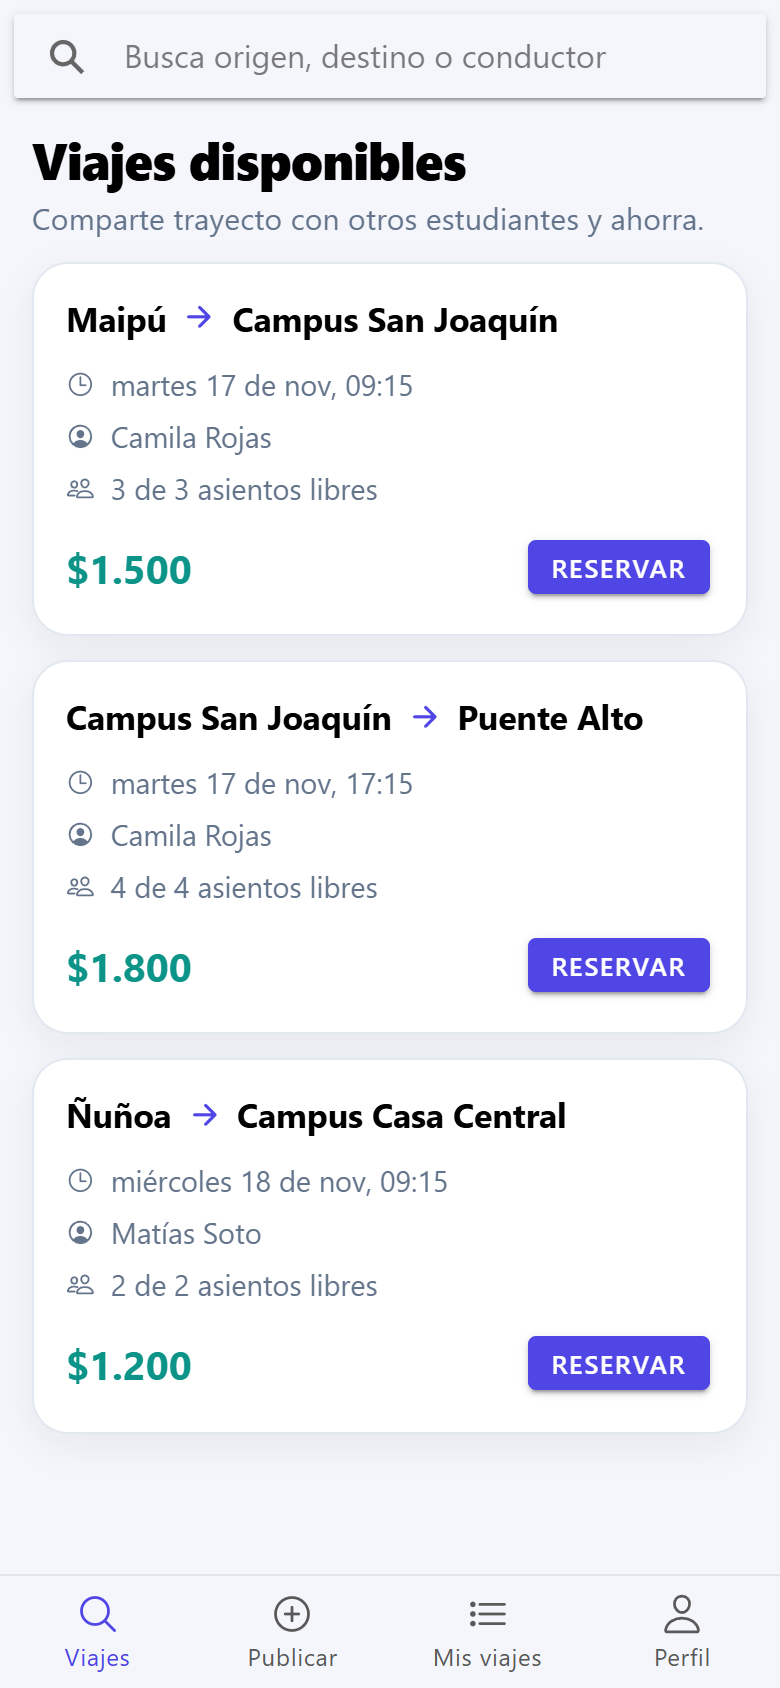
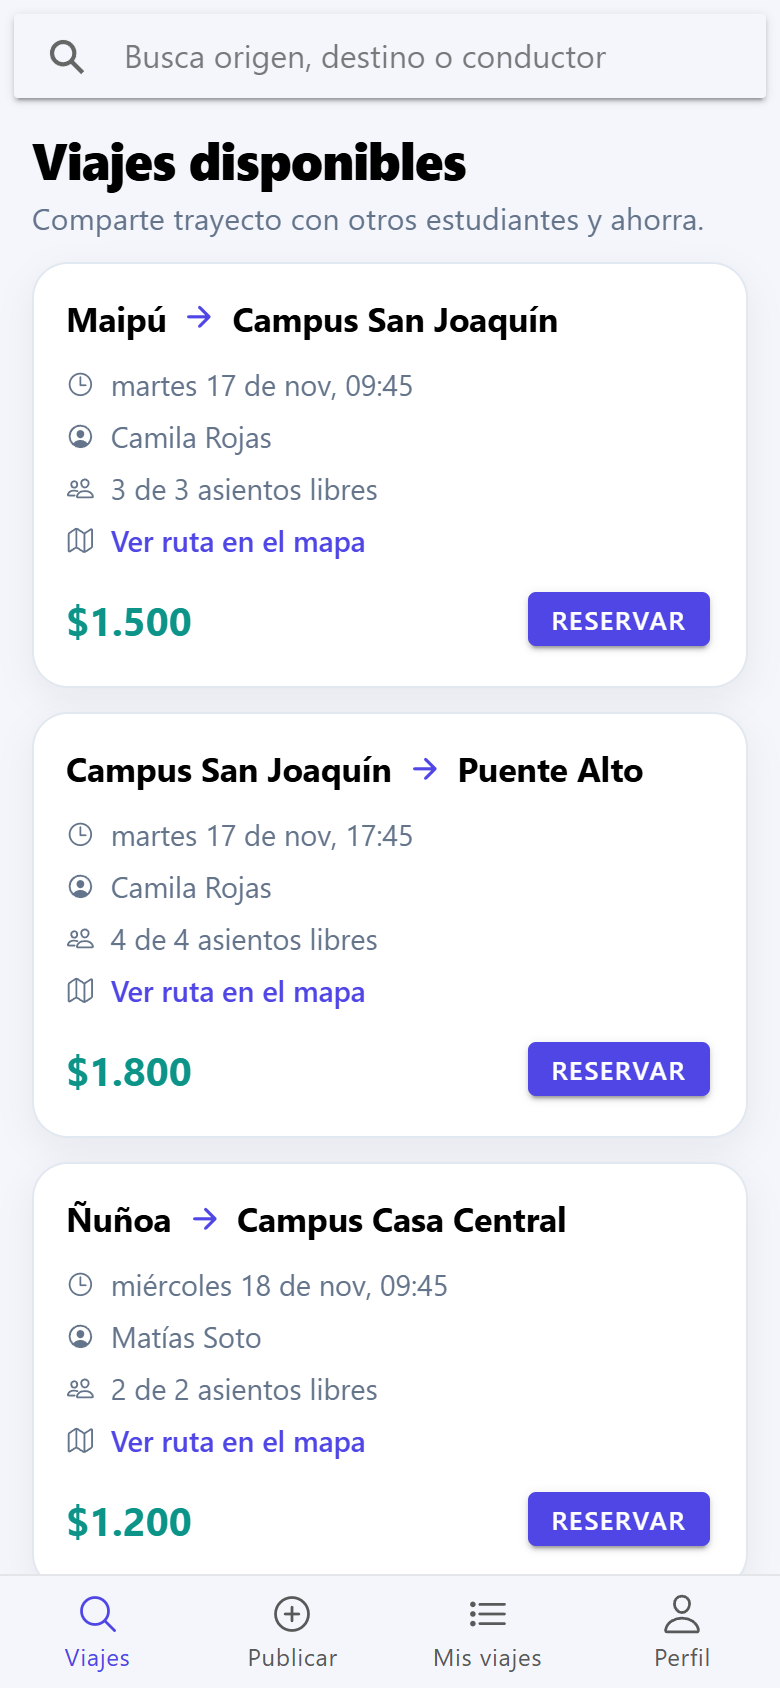
feat: route map, installable PWA
Adds a Leaflet/OpenStreetMap route view per trip and service worker + manifest.

diff --git a/src/app/pages/trip-map/trip-map.page.ts b/src/app/pages/trip-map/trip-map.page.ts
@@ -1,0 +1,107 @@
+import { DecimalPipe } from '@angular/common';
+import type { ElementRef } from '@angular/core';
+import { ChangeDetectionStrategy, Component, computed, effect, inject, input, viewChild } from '@angular/core';
+import { IonBackButton, IonButtons, IonContent, IonHeader, IonToolbar } from '@ionic/angular';
+import type { Map as LeafletMap } from 'leaflet';
+
+import { distanceKm, findPlace } from '../../core/places';
+import { TripsService } from '../../core/trips.service';
+import { TripCardComponent } from '../trips/trip-card.component';
+
+@Component({
+  selector: 'app-trip-map',
+  changeDetection: ChangeDetectionStrategy.OnPush,
+  imports: [DecimalPipe, IonBackButton, IonButtons, IonContent, IonHeader, IonToolbar, TripCardComponent],
+  template: `
+    <ion-header class="ion-no-border">
+      <ion-toolbar>
+        <ion-buttons slot="start"
+          ><ion-back-button defaultHref="/app/viajes" text="Viajes"></ion-back-button
+        ></ion-buttons>
+      </ion-toolbar>
+    </ion-header>
+    <ion-content>
+      <h1 class="page-title">Ruta del viaje</h1>
+      @if (trip(); as t) {
+        @if (route(); as r) {
+          <p class="page-subtitle">
+            Aprox. {{ r.km | number: '1.0-1' }} km en línea recta · ubicaciones referenciales.
+          </p>
+        } @else {
+          <p class="page-subtitle">No reconocemos el origen o el destino, así que no podemos dibujar la ruta.</p>
+        }
+        <div
+          #map
+          class="map"
+          [hidden]="!route()"
+          role="img"
+          [attr.aria-label]="'Mapa de ' + t.origin + ' a ' + t.destination"
+        ></div>
+        <app-trip-card [trip]="t" [showMapLink]="false" />
+      } @else {
+        <p class="page-subtitle">No encontramos este viaje.</p>
+      }
+    </ion-content>
+  `,
+  styles: `
+    .map {
+      height: 320px;
+      margin: 0 16px;
+      border-radius: 18px;
+      border: 1px solid var(--cr-border);
+      overflow: hidden;
+      z-index: 0;
+    }
+  `,
+})
+export class TripMapPage {
+  /** Parámetro de ruta `:id`. */
+  readonly id = input.required<string>();
+
+  private readonly trips = inject(TripsService);
+  private readonly mapEl = viewChild<ElementRef<HTMLDivElement>>('map');
+  private map?: LeafletMap;
+
+  protected readonly trip = computed(() => this.trips.trips().find((t) => t.id === this.id()) ?? null);
+  protected readonly route = computed(() => {
+    const t = this.trip();
+    const from = t && findPlace(t.origin);
+    const to = t && findPlace(t.destination);
+    return from && to ? { from, to, km: distanceKm(from, to) } : null;
+  });
+
+  constructor() {
+    if (!this.trips.trips().length) void this.trips.refresh();
+    effect(() => {
+      const el = this.mapEl()?.nativeElement;
+      const r = this.route();
+      if (el && r) void this.draw(el, r);
+    });
+  }
+
+  private async draw(el: HTMLDivElement, r: NonNullable<ReturnType<typeof this.route>>): Promise<void> {
+    // Leaflet es CommonJS: según el empaquetador, la API llega en `default` o en el módulo mismo.
+    const mod = await import('leaflet');
+    const L = mod.default ?? mod;
+    this.map?.remove();
+    const map = L.map(el, { zoomControl: false, attributionControl: true });
+    this.map = map;
+    L.tileLayer('https://{s}.tile.openstreetmap.org/{z}/{x}/{y}.png', {
+      maxZoom: 18,
+      attribution: '&copy; <a href="https://www.openstreetmap.org/copyright">OpenStreetMap</a>',
+    }).addTo(map);
+    const from: [number, number] = [r.from.lat, r.from.lng];
+    const to: [number, number] = [r.to.lat, r.to.lng];
+    L.polyline([from, to], { color: '#4f46e5', weight: 4, dashArray: '8 8' }).addTo(map);
+    const dot = { radius: 9, weight: 3, color: '#fff', fillOpacity: 1 };
+    L.circleMarker(from, { ...dot, fillColor: '#4f46e5' })
+      .addTo(map)
+      .bindTooltip(`Origen: ${r.from.name}`);
+    L.circleMarker(to, { ...dot, fillColor: '#0d9488' })
+      .addTo(map)
+      .bindTooltip(`Destino: ${r.to.name}`);
+    map.fitBounds([from, to], { padding: [40, 40] });
+    // El contenedor cambia de tamaño al terminar la transición de página de Ionic.
+    setTimeout(() => map.invalidateSize(), 350);
+  }
+}

diff --git a/src/app/core/places.ts b/src/app/core/places.ts
@@ -1,0 +1,66 @@
+export interface Place {
+  name: string;
+  lat: number;
+  lng: number;
+}
+
+/**
+ * Comunas y campus de Santiago con coordenadas aproximadas. Permite dibujar la ruta
+ * en el mapa sin depender de un servicio de geocodificación (ni de una API key).
+ */
+export const PLACES: readonly Place[] = [
+  { name: 'Campus San Joaquín', lat: -33.4985, lng: -70.614 },
+  { name: 'Campus Casa Central', lat: -33.4411, lng: -70.6405 },
+  { name: 'Santiago Centro', lat: -33.4489, lng: -70.6693 },
+  { name: 'Estación Central', lat: -33.459, lng: -70.699 },
+  { name: 'Independencia', lat: -33.414, lng: -70.665 },
+  { name: 'Huechuraba', lat: -33.368, lng: -70.634 },
+  { name: 'La Cisterna', lat: -33.529, lng: -70.664 },
+  { name: 'La Florida', lat: -33.5227, lng: -70.599 },
+  { name: 'La Reina', lat: -33.445, lng: -70.54 },
+  { name: 'Las Condes', lat: -33.408, lng: -70.567 },
+  { name: 'Lo Barnechea', lat: -33.352, lng: -70.518 },
+  { name: 'Macul', lat: -33.49, lng: -70.599 },
+  { name: 'Maipú', lat: -33.511, lng: -70.758 },
+  { name: 'Ñuñoa', lat: -33.4569, lng: -70.5975 },
+  { name: 'Peñalolén', lat: -33.486, lng: -70.542 },
+  { name: 'Providencia', lat: -33.4314, lng: -70.6093 },
+  { name: 'Pudahuel', lat: -33.44, lng: -70.76 },
+  { name: 'Puente Alto', lat: -33.6117, lng: -70.5758 },
+  { name: 'Quilicura', lat: -33.366, lng: -70.729 },
+  { name: 'Recoleta', lat: -33.406, lng: -70.64 },
+  { name: 'San Bernardo', lat: -33.5922, lng: -70.6996 },
+  { name: 'San Joaquín', lat: -33.496, lng: -70.628 },
+  { name: 'San Miguel', lat: -33.497, lng: -70.651 },
+  { name: 'Vitacura', lat: -33.38, lng: -70.572 },
+];
+
+function normalize(text: string): string {
+  return text
+    .normalize('NFD')
+    .replace(/\p{Diacritic}/gu, '')
+    .toLowerCase()
+    .trim();
+}
+
+/** Busca el lugar conocido que mejor coincide con un texto libre (sin distinguir tildes ni mayúsculas). */
+export function findPlace(text: string): Place | null {
+  const query = normalize(text);
+  if (query.length < 3) return null;
+  // Se prefieren los nombres más largos: «Campus San Joaquín» antes que «San Joaquín».
+  const byLength = [...PLACES].sort((a, b) => b.name.length - a.name.length);
+  return (
+    byLength.find((p) => query.includes(normalize(p.name))) ??
+    byLength.find((p) => normalize(p.name).includes(query)) ??
+    null
+  );
+}
+
+/** Distancia en línea recta (km) entre dos lugares, con la fórmula del haversine. */
+export function distanceKm(a: Place, b: Place): number {
+  const rad = (deg: number) => (deg * Math.PI) / 180;
+  const dLat = rad(b.lat - a.lat);
+  const dLng = rad(b.lng - a.lng);
+  const h = Math.sin(dLat / 2) ** 2 + Math.cos(rad(a.lat)) * Math.cos(rad(b.lat)) * Math.sin(dLng / 2) ** 2;
+  return 6371 * 2 * Math.asin(Math.sqrt(h));
+}

diff --git a/src/app/pages/trips/trip-card.component.ts b/src/app/pages/trips/trip-card.component.ts
@@ -1,15 +1,16 @@
 import { CurrencyPipe, DatePipe } from '@angular/common';
 import { ChangeDetectionStrategy, Component, computed, input } from '@angular/core';
+import { RouterLink } from '@angular/router';
 import { IonIcon } from '@ionic/angular';
 import { addIcons } from 'ionicons';
-import { arrowForward, peopleOutline, personCircleOutline, timeOutline } from 'ionicons/icons';
+import { arrowForward, mapOutline, peopleOutline, personCircleOutline, timeOutline } from 'ionicons/icons';
 
 import type { Trip } from '../../core/models';
 
 @Component({
   selector: 'app-trip-card',
   changeDetection: ChangeDetectionStrategy.OnPush,
-  imports: [CurrencyPipe, DatePipe, IonIcon],
+  imports: [CurrencyPipe, DatePipe, IonIcon, RouterLink],
   template: `
     <article class="cr-card">
       <header class="route">
@@ -30,6 +31,12 @@ import type { Trip } from '../../core/models';
           <ion-icon name="people-outline" aria-hidden="true"></ion-icon>
           {{ seatsLeft() }} de {{ trip().seats }} asientos libres
         </li>
+        @if (showMapLink()) {
+          <li>
+            <ion-icon name="map-outline" aria-hidden="true"></ion-icon>
+            <a [routerLink]="['/app/viajes', trip().id]">Ver ruta en el mapa</a>
+          </li>
+        }
       </ul>
       <footer>
         <strong class="price">{{ trip().price | currency: 'CLP' : 'symbol-narrow' : '1.0-0' }}</strong>
@@ -63,6 +70,11 @@ import type { Trip } from '../../core/models';
       align-items: center;
       gap: 8px;
     }
+    .meta a {
+      color: var(--ion-color-primary);
+      font-weight: 600;
+      text-decoration: none;
+    }
     footer {
       display: flex;
       align-items: center;
@@ -77,9 +89,10 @@ import type { Trip } from '../../core/models';
 })
 export class TripCardComponent {
   readonly trip = input.required<Trip>();
+  readonly showMapLink = input(true);
   readonly seatsLeft = computed(() => this.trip().seats - this.trip().passengers.length);
 
   constructor() {
-    addIcons({ arrowForward, peopleOutline, personCircleOutline, timeOutline });
+    addIcons({ arrowForward, mapOutline, peopleOutline, personCircleOutline, timeOutline });
   }
 }

diff --git a/src/main.ts b/src/main.ts
@@ -1,6 +1,6 @@
 import { registerLocaleData } from '@angular/common';
 import localeEsCl from '@angular/common/locales/es-CL';
-import { LOCALE_ID, enableProdMode } from '@angular/core';
+import { LOCALE_ID, enableProdMode, isDevMode } from '@angular/core';
 import { bootstrapApplication } from '@angular/platform-browser';
 import {
   RouteReuseStrategy,
@@ -9,6 +9,7 @@ import {
   withPreloading,
   PreloadAllModules,
 } from '@angular/router';
+import { provideServiceWorker } from '@angular/service-worker';
 import { IonicRouteStrategy, provideIonicAngular } from '@ionic/angular';
 
 import { AppComponent } from './app/app.component';
@@ -31,5 +32,9 @@ bootstrapApplication(AppComponent, {
     },
     provideIonicAngular(),
     provideRouter(routes, withPreloading(PreloadAllModules), withComponentInputBinding()),
+    provideServiceWorker('ngsw-worker.js', {
+      enabled: !isDevMode(),
+      registrationStrategy: 'registerWhenStable:30000',
+    }),
   ],
 }).catch((err: unknown) => console.error(err));

diff --git a/src/app/core/places.spec.ts b/src/app/core/places.spec.ts
@@ -1,0 +1,24 @@
+import { distanceKm, findPlace } from './places';
+
+describe('places', () => {
+  it('encuentra lugares sin importar tildes ni mayúsculas', () => {
+    expect(findPlace('maipu')?.name).toBe('Maipú');
+    expect(findPlace('  ÑUÑOA ')?.name).toBe('Ñuñoa');
+  });
+
+  it('prefiere el nombre más específico', () => {
+    expect(findPlace('Campus San Joaquín, entrada norte')?.name).toBe('Campus San Joaquín');
+    expect(findPlace('San Joaquín')?.name).toBe('San Joaquín');
+  });
+
+  it('devuelve null si no reconoce el lugar', () => {
+    expect(findPlace('Valparaíso')).toBeNull();
+    expect(findPlace('a')).toBeNull();
+  });
+
+  it('calcula una distancia razonable', () => {
+    const km = distanceKm(findPlace('Maipú')!, findPlace('Las Condes')!);
+    expect(km).toBeGreaterThan(15);
+    expect(km).toBeLessThan(25);
+  });
+});

diff --git a/src/index.html b/src/index.html
@@ -15,8 +15,11 @@
     <meta name="msapplication-tap-highlight" content="no" />
     <link rel="icon" type="image/svg+xml" href="assets/icon/favicon.svg" />
     <meta name="mobile-web-app-capable" content="yes" />
+    <link rel="manifest" href="manifest.webmanifest" />
+    <link rel="apple-touch-icon" href="icons/icon-192x192.png" />
   </head>
   <body>
     <app-root></app-root>
+    <noscript>Activa JavaScript para usar esta aplicación.</noscript>
   </body>
 </html>

diff --git a/src/app/app.routes.ts b/src/app/app.routes.ts
@@ -18,6 +18,10 @@ export const routes: Routes = [
         loadComponent: () => import('./pages/trips/trips.page').then((m) => m.TripsPage),
       },
       {
+        path: 'viajes/:id',
+        loadComponent: () => import('./pages/trip-map/trip-map.page').then((m) => m.TripMapPage),
+      },
+      {
         path: 'publicar',
         loadComponent: () => import('./pages/publish/publish.page').then((m) => m.PublishPage),
       },

diff --git a/src/global.scss b/src/global.scss
@@ -35,3 +35,6 @@
 /* @import "@ionic/angular/css/palettes/dark.always.css"; */
 /* @import "@ionic/angular/css/palettes/dark.class.css"; */
 @import '@ionic/angular/css/palettes/dark.system.css';
+
+/* Mapa (Leaflet) */
+@import 'leaflet/dist/leaflet.css';

diff --git a/README.md b/README.md
@@ -22,6 +22,7 @@
 <p align="center">
   <img src="docs/screenshots/01-login.png" alt="Inicio de sesión" width="200" />
   <img src="docs/screenshots/02-viajes.png" alt="Viajes disponibles" width="200" />
+  <img src="docs/screenshots/05-mapa.png" alt="Ruta del viaje en el mapa" width="200" />
   <img src="docs/screenshots/03-mis-viajes.png" alt="Mis viajes" width="200" />
   <img src="docs/screenshots/04-publicar.png" alt="Publicar un viaje" width="200" />
 </p>
@@ -40,7 +41,9 @@ CampusRide conecta a conductores y pasajeros que comparten trayecto hacia el cam
 - Roles **pasajero** y **conductor**, intercambiables desde el perfil.
 - Publicación de viajes con selector de fecha/hora, cupos y precio en CLP.
 - Búsqueda en vivo, reservas y cancelaciones con control de cupo (sin sobrerreservas).
+- **Mapa de la ruta** de cada viaje con Leaflet y OpenStreetMap (sin API key), con distancia aproximada.
 - Pestaña «Mis viajes» para ver reservas y viajes publicados.
+- **PWA instalable**: se puede agregar a la pantalla de inicio y abre sin conexión.
 - Modo claro/oscuro automático y diseño *mobile-first*.
 - **Modo demo** sin configuración: los datos viven en el navegador. Con credenciales, usa **Firebase Auth + Firestore**.
 
@@ -111,7 +114,7 @@ Las contribuciones son bienvenidas: revisa [CONTRIBUTING.md](CONTRIBUTING.md).
 
 ### 🗺 Próximos pasos
 
-Mapa con rutas, notificaciones push, calificaciones de conductores y chat entre pasajeros.
+Geocodificación de direcciones exactas (hoy el mapa reconoce comunas y campus de Santiago definidos en `src/app/core/places.ts`), notificaciones push, calificaciones de conductores y chat entre pasajeros.
 
 ---
 
@@ -127,7 +130,9 @@ CampusRide connects drivers and riders who share a commute to campus. Drivers pu
 - **Passenger** and **driver** roles, switchable from the profile.
 - Trip publishing with date/time picker, seat count and price (CLP).
 - Live search, bookings and cancellations with seat-capacity checks.
+- **Route map** for every trip (Leaflet + OpenStreetMap, no API key).
 - "My trips" tab for bookings and published trips.
+- **Installable PWA** with offline support.
 - Automatic light/dark theme, mobile-first design.
 - **Zero-config demo mode** (data stored in the browser); plug in credentials to use **Firebase Auth + Firestore**.
 
